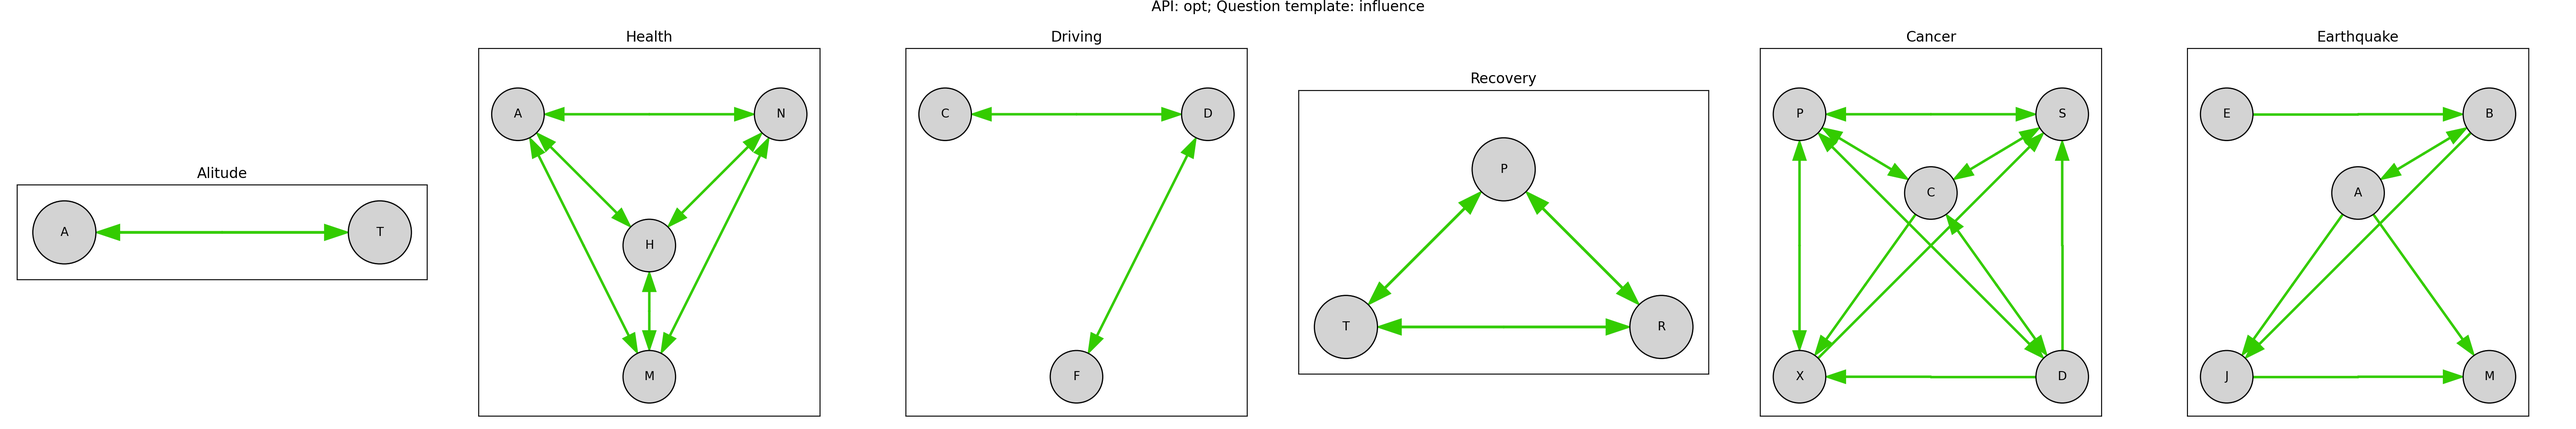
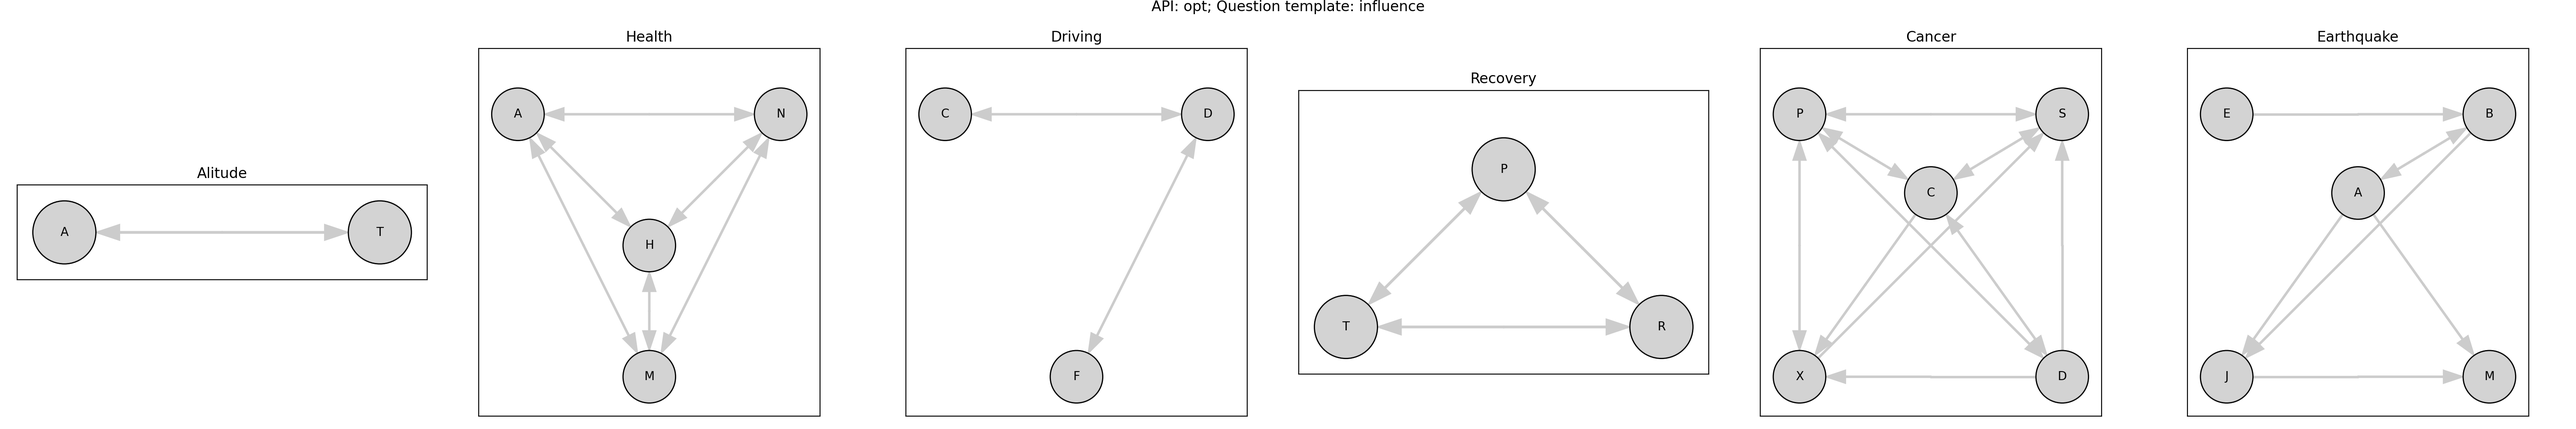
neutral color coding

diff --git a/plot.py b/plot.py
@@ -5,6 +5,8 @@ import numpy as np
 from networkx import *
 import matplotlib.pyplot as plt
 
+from causalFM.plot_config import arrow_active_color, arrow_alternative_color, arrow_inactive_color
+
 var_positions = {
     # ALTITUDE
     "altitude": [0, 0],
@@ -55,7 +57,7 @@ def lerp(a, b, x):
     return (a*(1-x)) + (b*x)
 
 
-def draw_edge(p0, p1, f01, f10, pad, active_color=(0.2, 0.8, 0.0), alt_color=(0.05, 0.2, 0.8), mode=None,
+def draw_edge(p0, p1, f01, f10, pad, active_color=None, alt_color=None, mode=None,
               label=None, label0=None, label1=None, label_x_percent=0.5):
     """
     :param p0: node0 position
@@ -73,6 +75,12 @@ def draw_edge(p0, p1, f01, f10, pad, active_color=(0.2, 0.8, 0.0), alt_color=(0.
     :param label_x_percent: determines where label0/1 are placed (0.0=center, 1.0=at tip of arrow)
     :return:
     """
+    if active_color is None:
+        active_color = arrow_active_color
+    if alt_color is None:
+        alt_color = arrow_alternative_color
+    inactive_color = arrow_inactive_color
+
     if mode is None:
         mode = "encode"
 
@@ -105,13 +113,13 @@ def draw_edge(p0, p1, f01, f10, pad, active_color=(0.2, 0.8, 0.0), alt_color=(0.
         if not has_connection:
             return
         c0, c1, c2 = active_color
-        b0, b1, b2 = (1.0, 1.0, 1.0)
+        b0, b1, b2 = inactive_color
         r_color01 = (lerp(b0, c0, f01), lerp(b1, c1, f01), lerp(b2, c2, f01))
         r_color10 = (lerp(b0, c0, f10), lerp(b1, c1, f10), lerp(b2, c2, f10))
     elif mode == "diverging":
         has_no_connection = np.isnan(f01) or np.isnan(f10)
         # handle case where only one edge exists
-        assert np.isnan(f01) != np.isnan(f10)
+        assert np.isnan(f01) == np.isnan(f10)
 
         if has_no_connection:
             return
@@ -161,7 +169,7 @@ def draw_edge(p0, p1, f01, f10, pad, active_color=(0.2, 0.8, 0.0), alt_color=(0.
             label1, horizontalalignment='center', verticalalignment="center")
 
 def plot_from_adj_mat(
-        adj_mat, var_names, dataset_name, ax=None, abrev_vars=True, ignore_undefined=False,
+        adj_mat, var_names, dataset_name, ax=None, abrev_vars=True, ignore_undefined=True,
         edge_labels=None, edge_mode=None):
     if ax is None:
         raise RuntimeError("ax is none")
@@ -179,6 +187,9 @@ def plot_from_adj_mat(
 
     if ignore_undefined:
         adj_mat = adj_mat.clip(min=0)
+    else:
+        #TODO
+        raise RuntimeError("Warn no explicit handling of unknown values")
 
     circle_radius = 0.1
 

diff --git a/plot_config.py b/plot_config.py
@@ -1,0 +1,9 @@
+
+#arrow_active_color = (0.2, 0.8, 0.0)  # bright green
+#arrow_inactive_color = (1.0, 1.0, 1.0)
+#arrow_alternative_color = (0.05, 0.2, 0.8)  # green-blue-ish
+
+arrow_active_color = (0.8, 0.8, 0.8)
+arrow_inactive_color = (0.1, 0.1, 0.1)
+arrow_alternative_color = (0.2, 0.2, 0.2)
+
